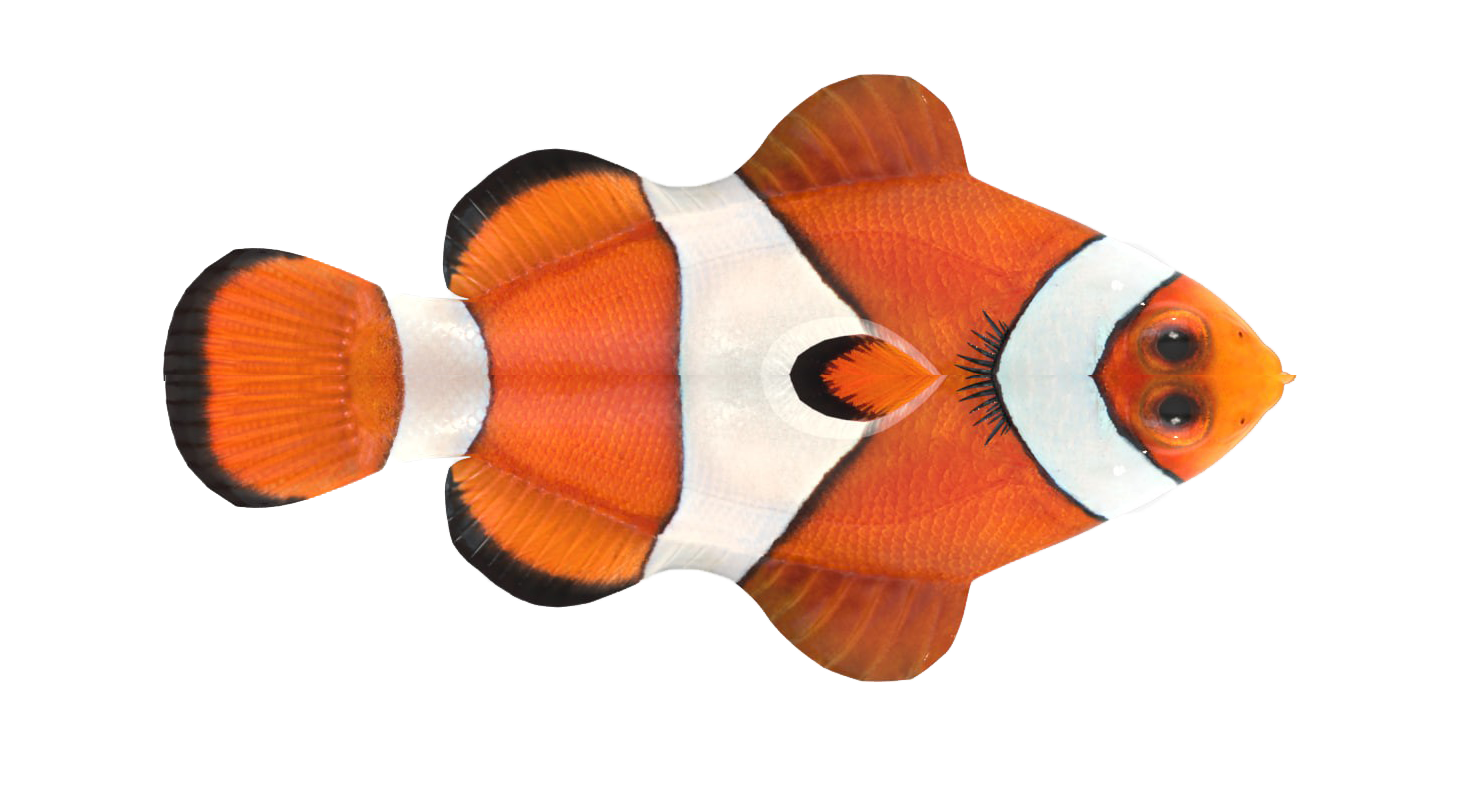
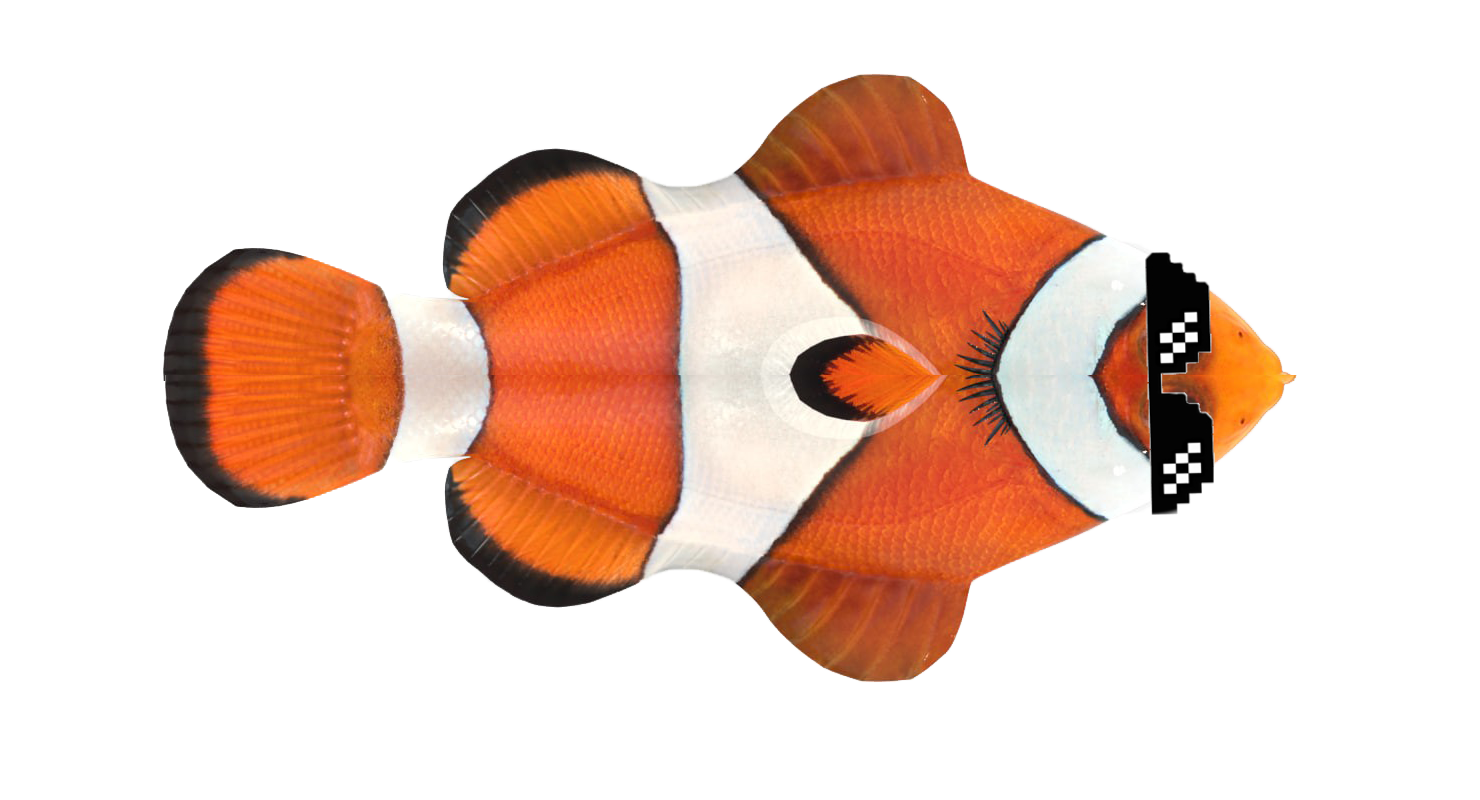
Added sight range Fixed normalizing vector Added new boid texture Modified angle calculation

Changed region(s): [[0.7459, 0.3125, 0.8392, 0.6562]]

diff --git a/BoidFlockSimulation/FlockSimulator.cpp b/BoidFlockSimulation/FlockSimulator.cpp
@@ -16,7 +16,7 @@ void FlockSimulator::generateBoids(int count)
 		addBoid(
 			rand() % (width - _boidSize) + _boidSize,
 			rand() % (height - _boidSize) + _boidSize,
-			rand() % 360
+			rand() % 360 - 179
 		);
 	}
 }
@@ -55,6 +55,8 @@ void FlockSimulator::moveBoids()
 		float alignmentFactor = 0.0;
 		float2 cohesionVector;
 
+		int boidsSeen = 0;
+
 		for (size_t j = 0; j < boidCount; j++)
 		{
 			if (i == j)
@@ -62,18 +64,25 @@ void FlockSimulator::moveBoids()
 
 			float distance = Calculator::calculateDistance(_boids[i].getCoordinates(), _boids[j].getCoordinates());
 
+			if (distance > 40000)
+				continue;
+
 			Calculator::updateSeparationFactor(separationVector, _boids[i].getCoordinates(), _boids[j].getCoordinates(), distance);
 			Calculator::updateAlignmentFactor(alignmentFactor, _boids[j].getAngle());
 			Calculator::updateCohesionFactor(cohesionVector, _boids[j].getCoordinates());
+
+			boidsSeen++;
 		}
+		if (boidsSeen == 0)
+			continue;
 
 		Calculator::normalizeVector(separationVector);
 
-		alignmentFactor = alignmentFactor / (boidCount - 1);
+		alignmentFactor = alignmentFactor / boidsSeen;
 		float2 alignmentVector = Calculator::getVectorFromAngle(alignmentFactor);
 
-		cohesionVector.x = cohesionVector.x / (boidCount - 1) - _boids[i].getCoordinates().x;
-		cohesionVector.y = cohesionVector.y / (boidCount - 1) - _boids[i].getCoordinates().y;
+		cohesionVector.x = cohesionVector.x / boidsSeen - _boids[i].getCoordinates().x;
+		cohesionVector.y = cohesionVector.y / boidsSeen - _boids[i].getCoordinates().y;
 		Calculator::normalizeVector(cohesionVector);
 		
 		float3 movement = Calculator::getMovementFromFactors(separationVector, alignmentVector, cohesionVector);

diff --git a/BoidFlockSimulation/Calculator.cpp b/BoidFlockSimulation/Calculator.cpp
@@ -20,15 +20,17 @@ void Calculator::updateCohesionFactor(float2 &cohesionFactor, const float2 &targ
 float2 Calculator::normalizeVector(float2 &vector)
 {
 	float length = vector.x * vector.x + vector.y * vector.y;
-	vector.x *= vector.x / length;
-	vector.y *= vector.y / length;
+	length = sqrtf(length);
+
+	vector.x /= length;
+	vector.y /= length;
 
 	return vector;
 }
 
 float Calculator::normalizeAngle(float &angle)
 {
-	return (float)fmod(angle, 360);;
+	return (float)fmod(angle, 360);
 }
 
 float2 Calculator::getVectorFromAngle(float angle)
@@ -50,7 +52,7 @@ float Calculator::getAngleFromVector(float2 vector)
 	float angle = angleRad / RADIAN_MULTIPLIER;
 
 	if (vector.y < 0)
-		return 180 + angle;
+		return angle - 180;
 
 	return angle;
 }

diff --git a/BoidFlockSimulation/main.cpp b/BoidFlockSimulation/main.cpp
@@ -5,9 +5,9 @@
 
 int BACKGROUND_COLOR[4] = { 0, 105, 148, 255 }; // Sea blue
 char *WINDOW_TITLE = "Boid Flock Simulation";
-int WINDOW_HEIGHT = 600;
-int WINDOW_WIDTH = 600;
-int BOID_SIZE = 30;
+int WINDOW_HEIGHT = 900;
+int WINDOW_WIDTH = 900;
+int BOID_SIZE = 60;
 
 int main(int argc, char *argv[])
 {
@@ -18,7 +18,7 @@ int main(int argc, char *argv[])
 		return EXIT_FAILURE;
 
 	FlockSimulator simulator(&window, BOID_SIZE);
-	simulator.generateBoids(15);
+	simulator.generateBoids(150);
 
 	// Main window loop
 	SDL_Event event;

diff --git a/BoidFlockSimulation/Boid.cpp b/BoidFlockSimulation/Boid.cpp
@@ -41,12 +41,12 @@ float Boid::getAngle()
 void Boid::move(float3 movement)
 {
 	float newX = _position.x + movement.x;
-	if (newX < _size / 2 || newX > _windowWidth - _size)
-		newX -= movement.x;
+	//if (newX <= 0 || newX >= _windowWidth)
+	//	return;
 
 	float newY = _position.y + movement.y;
-	if (newY < _size / 2 || newY > _windowHeight - _size)
-		newY -= movement.y;
+	//if (newY <= 0 || newY >= _windowHeight)
+	//	return;
 	
 	_position.x = newX;
 	_position.y = newY;
